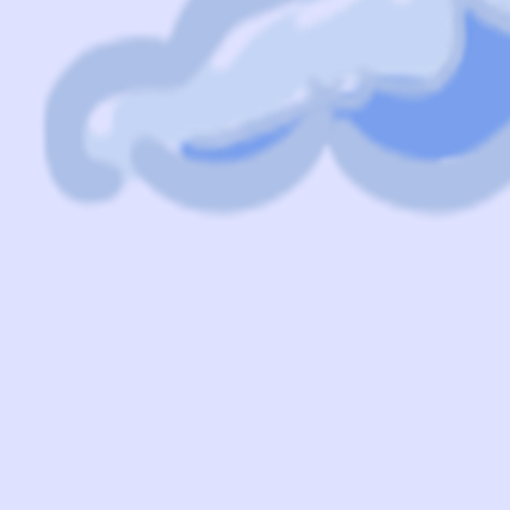
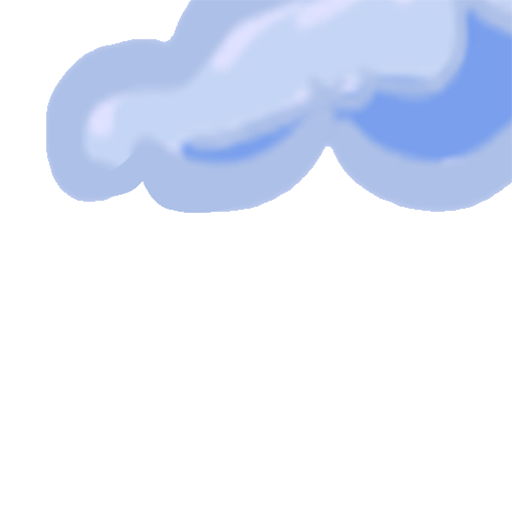
tiles ahora re blancos

diff --git a/GateCrasher/js/gameController.js b/GateCrasher/js/gameController.js
@@ -231,7 +231,7 @@ function preload(){
 }
 
 function startGame(){
-    $.getJSON("res/levels/level2.json", function(data){
+    $.getJSON("res/levels/level3.json", function(data){
         lManager = new levelManager(myGameArea, images, data);
 
         var rows = lManager.numRows;
@@ -280,7 +280,7 @@ $(document).ready(function(){
         "res/background/heaven_corner4.png", // 5
         "res/background/heaven_intersectiondown.png", // 6
         "res/background/snow_end.png", // 7
-        "res/background/cloud.png", // 8
+        "res/background/cloud_blank.png", // 8
         "res/background/heaven_intersectionder.png", // 9
         "res/background/heaven_intersectionizq.png", // 10
         "res/background/heaven_intersectionup.png", // 11
@@ -295,6 +295,8 @@ $(document).ready(function(){
         "res/background/cloud_big4.png", // 20
         "res/background/cloud_big5.png", // 21
         "res/background/cloud_big6.png", // 22
+        "res/background/heaven_intersection.png", // 23
+
         "res/enemies/enemy01_stand.png",
         "res/enemies/enemy01_idle.png",
         "res/enemies/enemy01_attack.png",
